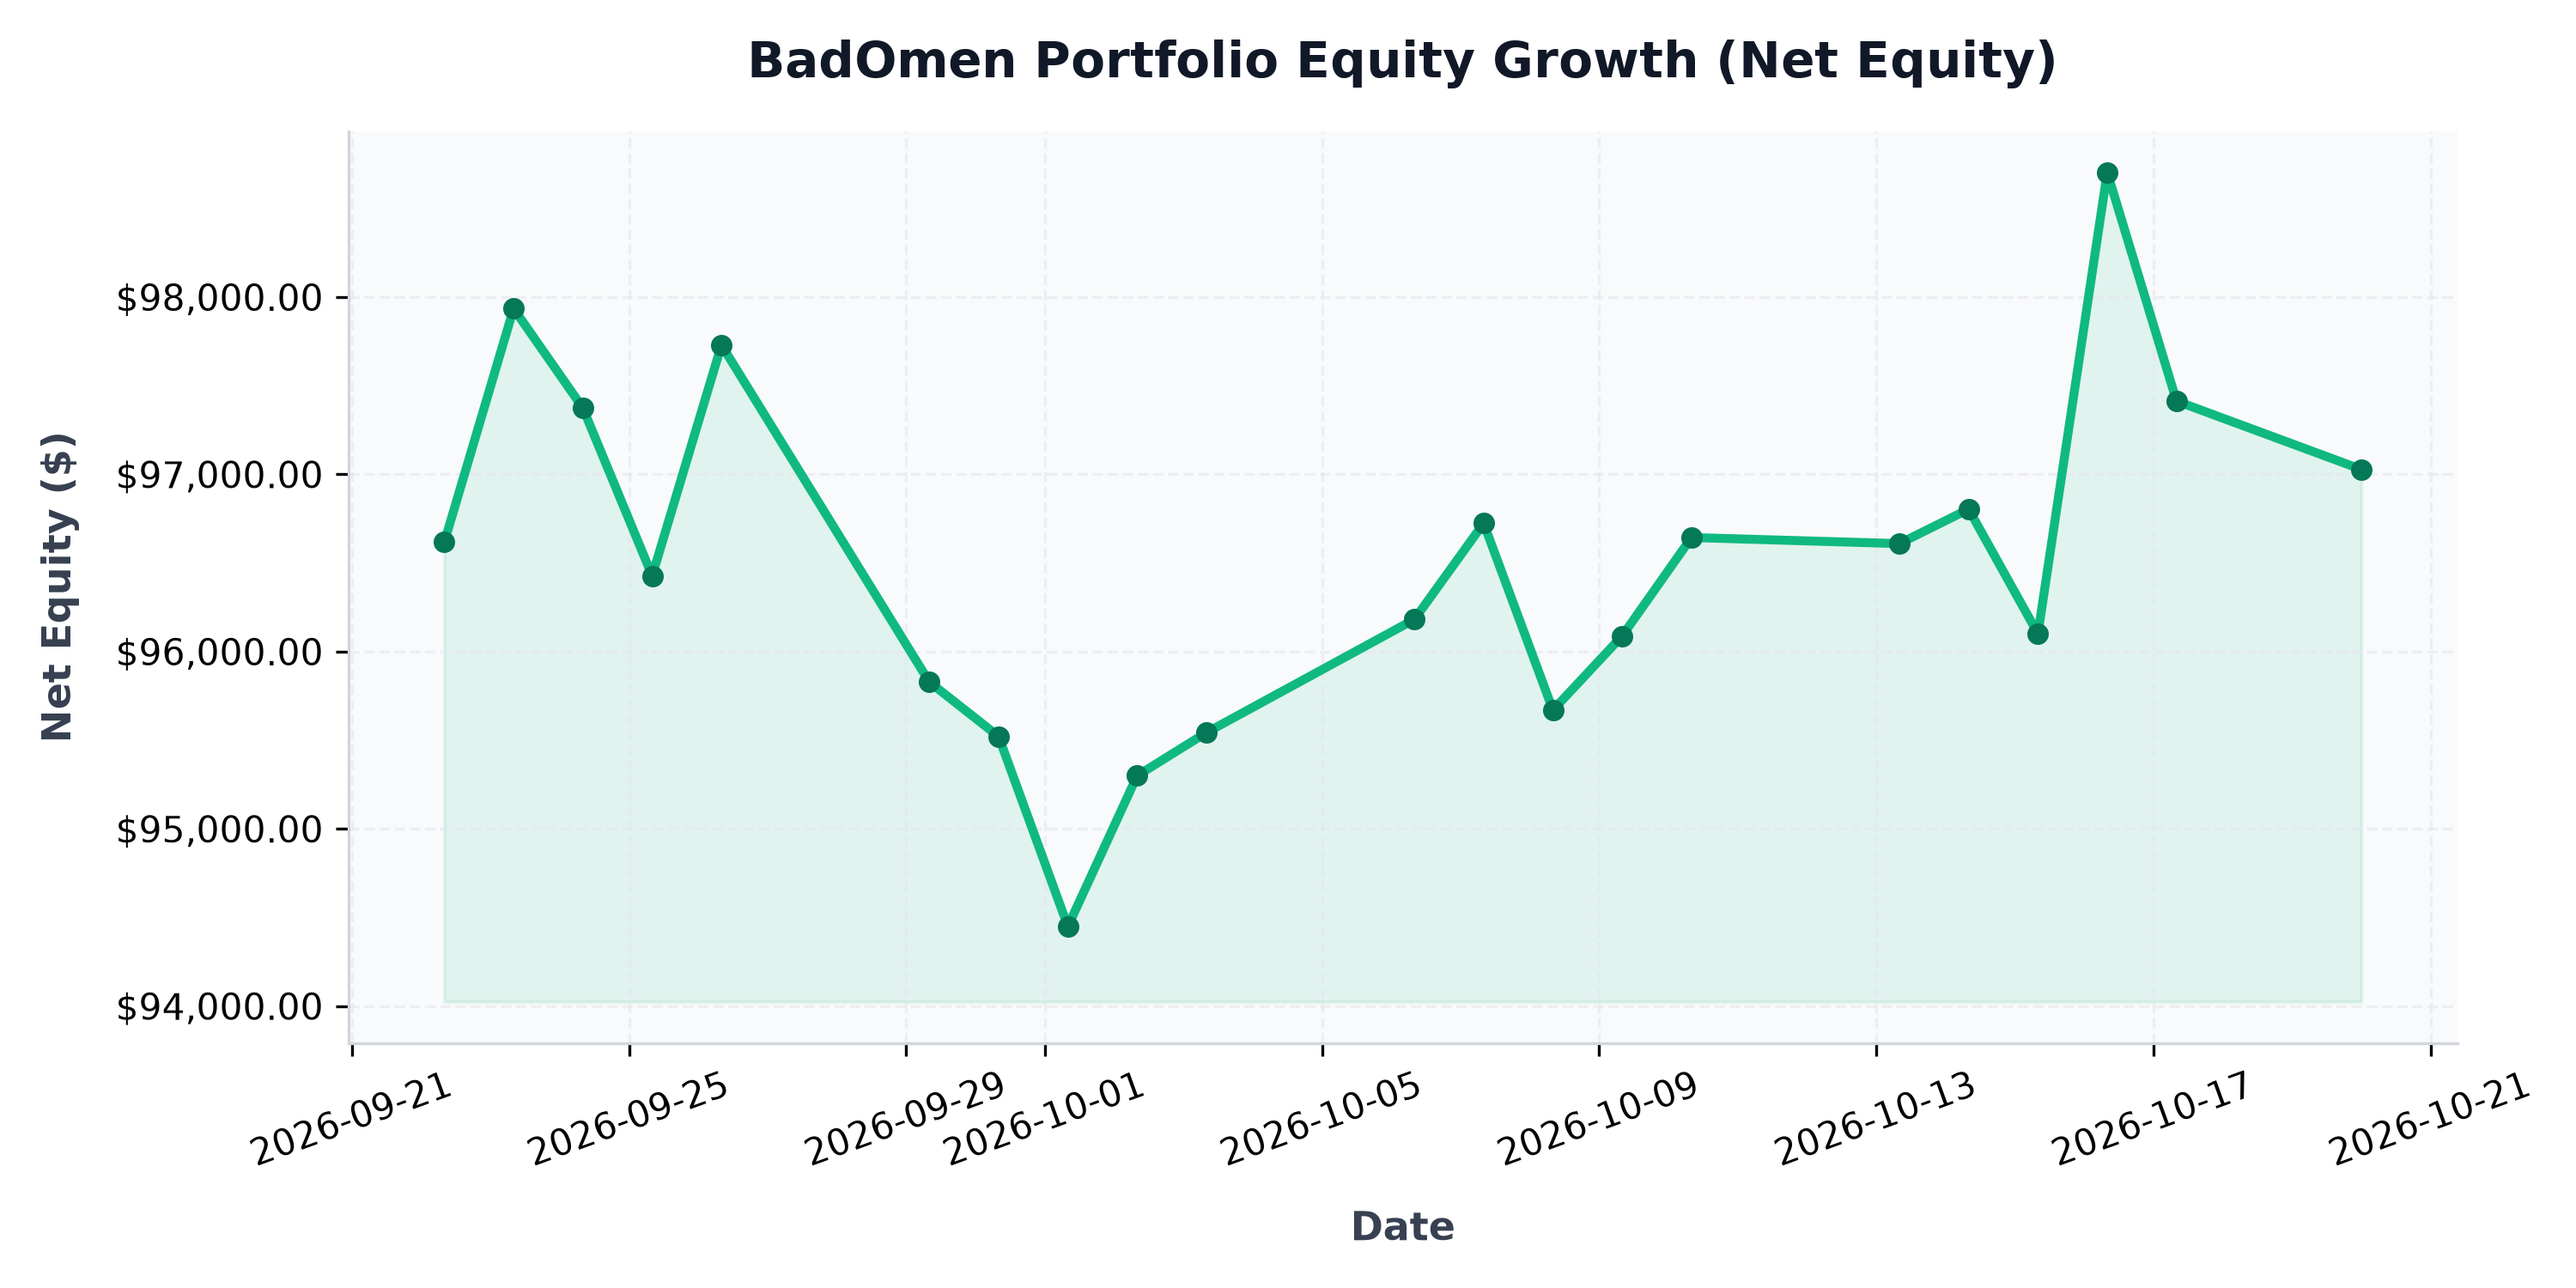
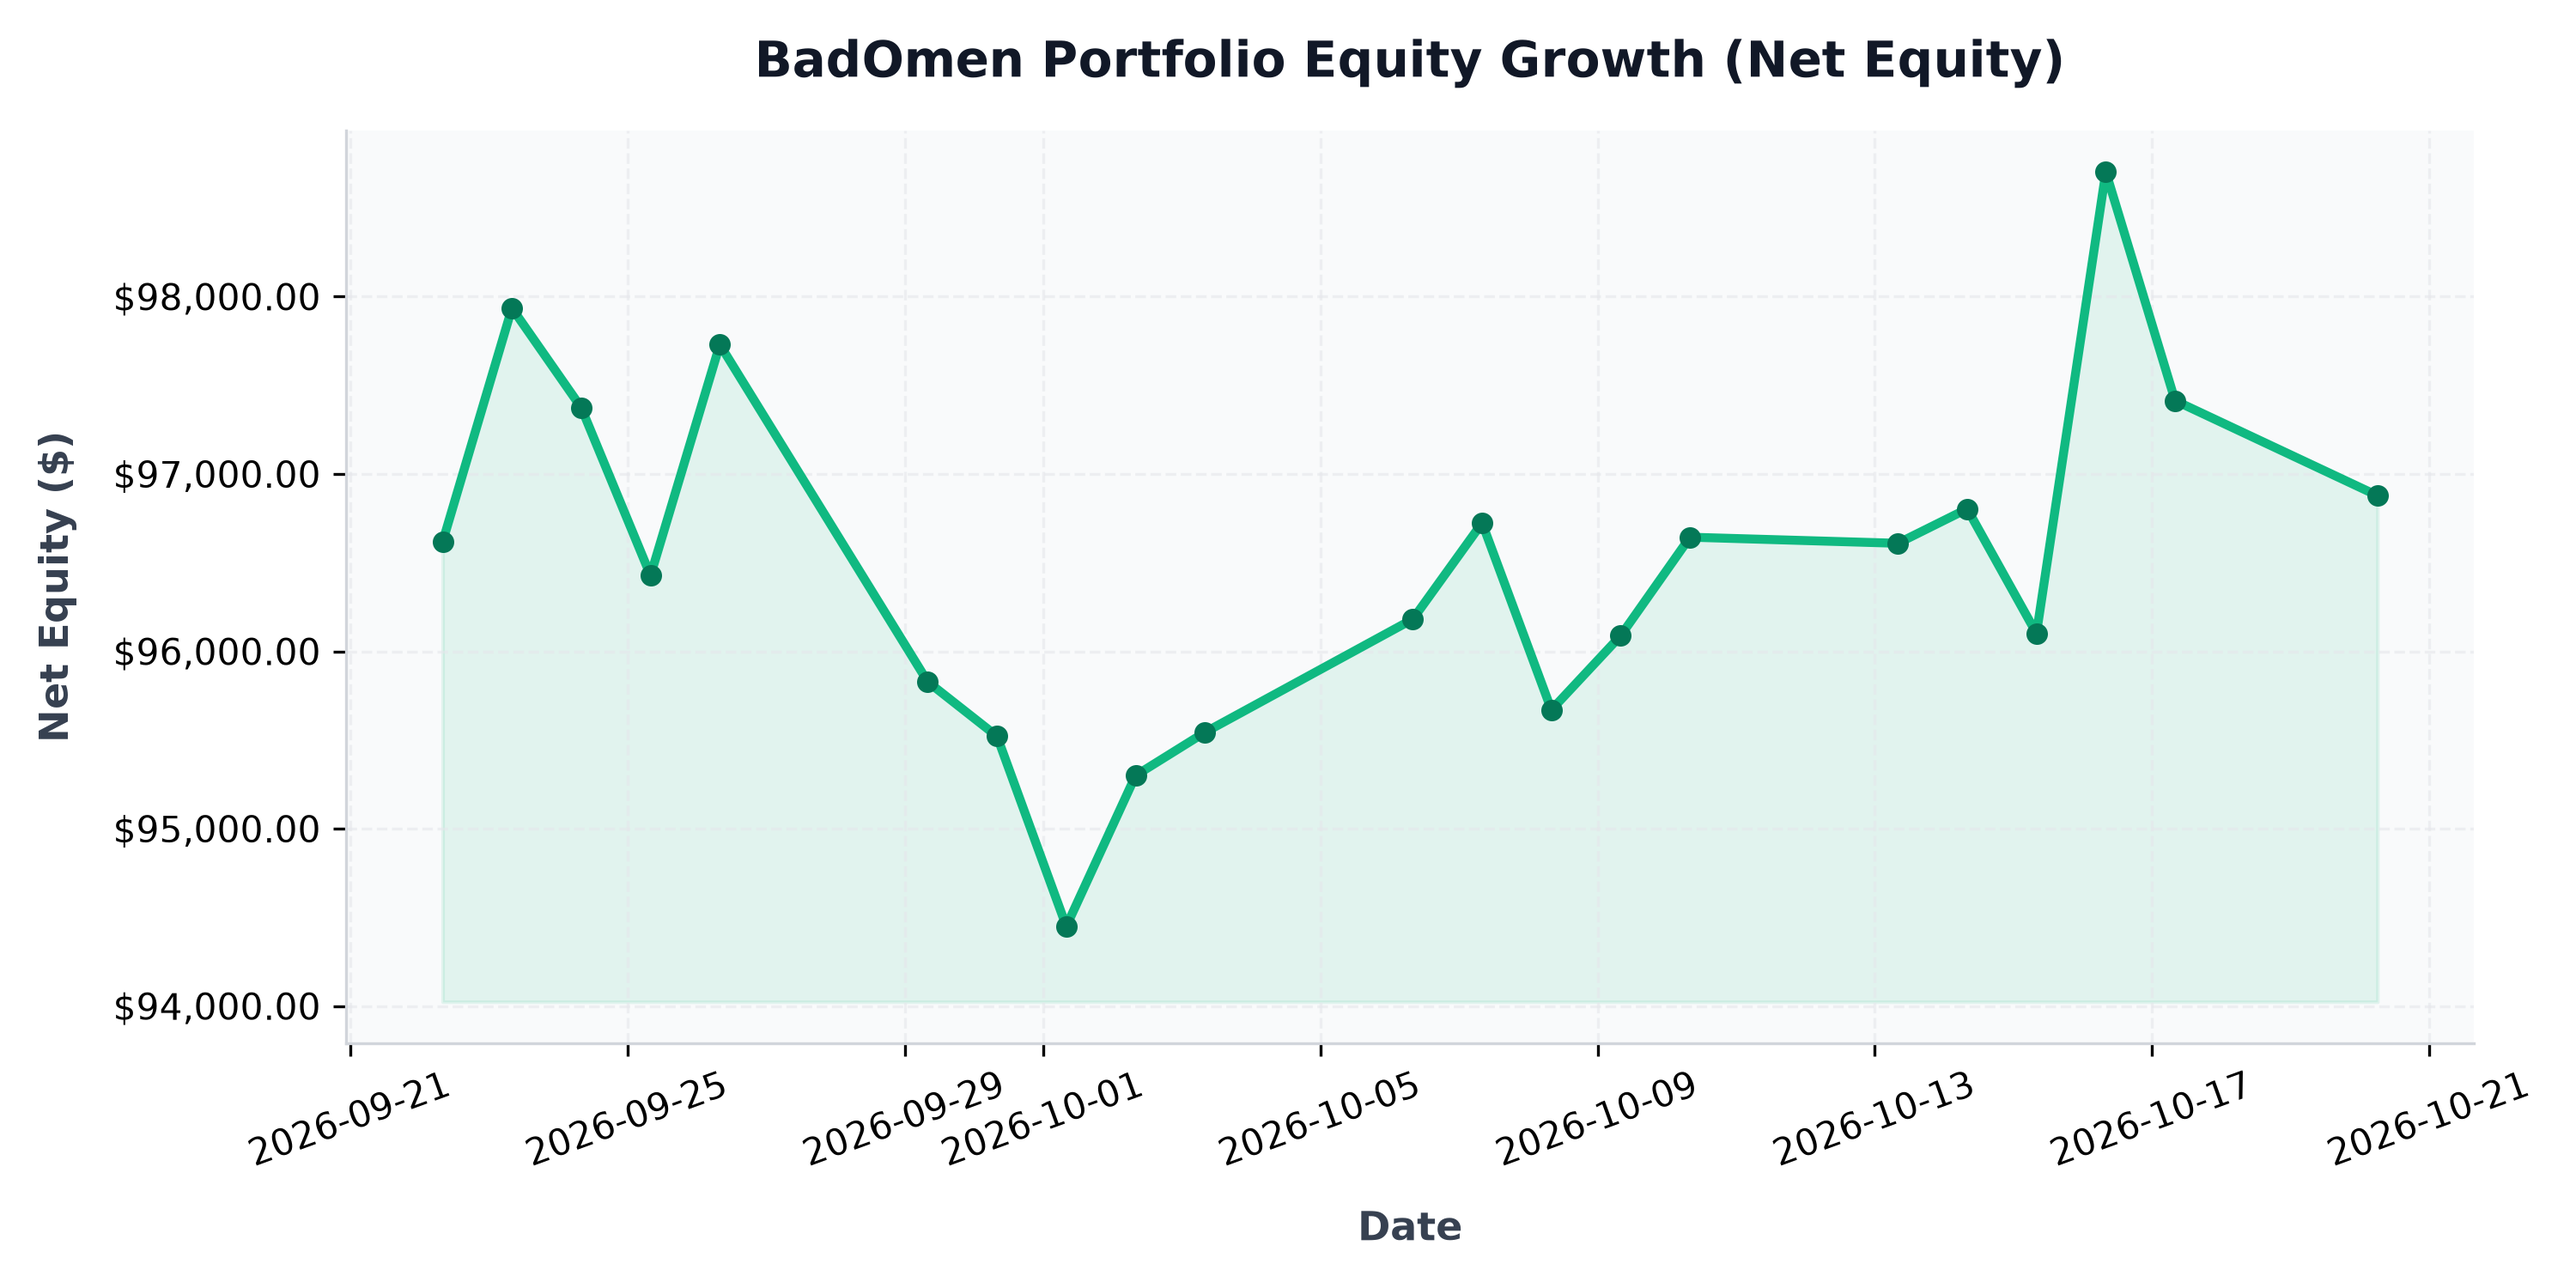
auto: daily portfolio status update - 2026-10-20 06:05:14

diff --git a/src/content/posts/portfolio-performance.md b/src/content/posts/portfolio-performance.md
@@ -1,6 +1,6 @@
 ---
 title: "BadOmen Algorithmic Portfolio Performance & PnL Report"
-pubDatetime: 2026-10-20T00:00:14.351247+08:00
+pubDatetime: 2026-10-20T06:05:14.110418+08:00
 description: "Live performance metrics, active holdings, and historic equity curve for the BadOmen automated paper trading portfolio."
 featured: true
 draft: false
@@ -16,11 +16,11 @@ Welcome to the live performance dashboard for **BadOmen**, our automated algorit
 ## 📊 Portfolio Summary
 | Performance Metric | Value | description |
 | :--- | :--- | :--- |
-| **Net Portfolio Equity** | **$97,028.08** | Total current liquidation value of cash and stock holdings |
-| **Total Unrealized P&L** | 🔴 **$-4,070.28** (-4.03%) | Total return of current open holdings |
+| **Net Portfolio Equity** | **$96,878.10** | Total current liquidation value of cash and stock holdings |
+| **Total Unrealized P&L** | 🔴 **$-4,216.16** (-4.17%) | Total return of current open holdings |
 | **Cash Balance** | $24,266.50 | Idle reserve currency available for limit orders |
-| **Buying Power** | $300,798.43 | Margin-backed buying power for entry allocations |
-| **Report Updated** | `2026-10-20 00:00:14 (SGT)` | Timestamp of daily execution and sync run |
+| **Buying Power** | $300,378.49 | Margin-backed buying power for entry allocations |
+| **Report Updated** | `2026-10-20 06:05:14 (SGT)` | Timestamp of daily execution and sync run |
 
 ## 📈 Net Equity Growth Curve
 The chart below illustrates the historical performance of the account starting from our baseline capital funding of $100,000.00.
@@ -35,35 +35,35 @@ The chart below illustrates the exposure of our currently held active positions 
 ## 💼 Current Position Holdings
 | Ticker | Industry | Shares Owned | Average Entry Cost | Current Price | Unrealized P&L | Return (%) |
 | :--- | :--- | :--- | :--- | :--- | :--- | :--- |
-| **AN** | Auto & Truck Dealerships | 5 | $188.51 | $160.69 | 🔴 $-139.06 | -14.75% |
-| **AVGO** | Semiconductors | 1 | $385.71 | $339.28 | 🔴 $-46.43 | -12.04% |
-| **BIRK** | Footwear & Accessories | 407 | $37.32 | $33.07 | 🔴 $-1,728.82 | -11.38% |
-| **BLBD** | Farm & Heavy Construction Machinery | 231 | $65.52 | $56.41 | 🔴 $-2,102.32 | -13.89% |
-| **BVN** | Other Precious Metals & Mining | 32 | $31.88 | $30.24 | 🔴 $-52.32 | -5.13% |
-| **CELH** | Beverages - Non-Alcoholic | 33 | $29.71 | $29.66 | 🔴 $-1.74 | -0.18% |
-| **CPRI** | Luxury Goods | 1042 | $14.55 | $16.07 | 🟢 +$1,581.96 | +10.43% |
-| **DUOL** | Software - Application | 14 | $131.04 | $140.22 | 🟢 +$128.46 | +7.00% |
-| **FIS** | Information Technology Services | 23 | $41.79 | $35.84 | 🔴 $-136.85 | -14.24% |
-| **GDDY** | Software - Infrastructure | 6 | $76.21 | $106.75 | 🟢 +$183.21 | +40.07% |
-| **GDS** | Information Technology Services | 30 | $32.77 | $22.97 | 🔴 $-294.00 | -29.90% |
-| **GGAL** | Banks - Regional | 17 | $56.04 | $35.16 | 🔴 $-354.87 | -37.25% |
-| **GOOGL** | Internet Content & Information | 3 | $319.44 | $345.77 | 🟢 +$78.99 | +8.24% |
-| **GPI** | Auto & Truck Dealerships | 3 | $316.15 | $241.56 | 🔴 $-223.77 | -23.59% |
-| **HUBS** | Software - Application | 8 | $221.18 | $231.05 | 🟢 +$78.95 | +4.46% |
-| **ITRI** | Scientific & Technical Instruments | 12 | $81.80 | $82.68 | 🟢 +$10.56 | +1.08% |
-| **KBR** | Engineering & Construction | 27 | $36.23 | $36.51 | 🟢 +$7.34 | +0.75% |
-| **NESR** | Oil & Gas Equipment & Services | 34 | $28.74 | $19.01 | 🔴 $-330.82 | -33.86% |
-| **NU** | Banks - Regional | 57 | $11.60 | $14.57 | 🟢 +$169.66 | +25.66% |
-| **ON** | Semiconductors | 10 | $90.45 | $72.07 | 🔴 $-183.85 | -20.32% |
-| **ORCL** | Software - Infrastructure | 5 | $181.95 | $130.91 | 🔴 $-255.18 | -28.05% |
-| **PATH** | Software - Infrastructure | 38 | $10.25 | $13.12 | 🟢 +$108.87 | +27.95% |
-| **PYPL** | Credit Services | 17 | $56.05 | $56.37 | 🟢 +$5.36 | +0.56% |
-| **QCOM** | Semiconductors | 15 | $193.68 | $176.31 | 🔴 $-260.62 | -8.97% |
-| **SMCI** | Computer Hardware | 22 | $29.25 | $32.81 | 🟢 +$78.43 | +12.19% |
-| **SRE** | Utilities - Diversified | 57 | $84.75 | $82.41 | 🔴 $-133.52 | -2.76% |
-| **T** | Telecom Services | 47 | $20.85 | $23.14 | 🟢 +$107.39 | +10.96% |
-| **WEN** | Restaurants | 257 | $8.02 | $6.59 | 🔴 $-368.44 | -17.87% |
-| **ZG** | Internet Content & Information | 31 | $31.35 | $31.45 | 🟢 +$3.15 | +0.33% |
+| **AN** | Auto & Truck Dealerships | 5 | $188.51 | $160.39 | 🔴 $-140.59 | -14.92% |
+| **AVGO** | Semiconductors | 1 | $385.71 | $335.58 | 🔴 $-50.13 | -13.00% |
+| **BIRK** | Footwear & Accessories | 407 | $37.32 | $32.85 | 🔴 $-1,818.36 | -11.97% |
+| **BLBD** | Farm & Heavy Construction Machinery | 231 | $65.52 | $55.72 | 🔴 $-2,262.87 | -14.95% |
+| **BVN** | Other Precious Metals & Mining | 32 | $31.88 | $30.14 | 🔴 $-55.52 | -5.44% |
+| **CELH** | Beverages - Non-Alcoholic | 33 | $29.71 | $29.65 | 🔴 $-2.06 | -0.21% |
+| **CPRI** | Luxury Goods | 1042 | $14.55 | $16.20 | 🟢 +$1,717.42 | +11.33% |
+| **DUOL** | Software - Application | 14 | $131.04 | $142.39 | 🟢 +$158.84 | +8.66% |
+| **FIS** | Information Technology Services | 23 | $41.79 | $36.03 | 🔴 $-132.48 | -13.78% |
+| **GDDY** | Software - Infrastructure | 6 | $76.21 | $106.70 | 🟢 +$182.94 | +40.01% |
+| **GDS** | Information Technology Services | 30 | $32.77 | $22.48 | 🔴 $-308.70 | -31.40% |
+| **GGAL** | Banks - Regional | 17 | $56.04 | $35.09 | 🔴 $-356.14 | -37.38% |
+| **GOOGL** | Internet Content & Information | 3 | $319.44 | $344.25 | 🟢 +$74.43 | +7.77% |
+| **GPI** | Auto & Truck Dealerships | 3 | $316.15 | $240.00 | 🔴 $-228.45 | -24.09% |
+| **HUBS** | Software - Application | 8 | $221.18 | $234.63 | 🟢 +$107.59 | +6.08% |
+| **ITRI** | Scientific & Technical Instruments | 12 | $81.80 | $82.31 | 🟢 +$6.12 | +0.62% |
+| **KBR** | Engineering & Construction | 27 | $36.23 | $36.43 | 🟢 +$5.32 | +0.54% |
+| **NESR** | Oil & Gas Equipment & Services | 34 | $28.74 | $18.80 | 🔴 $-337.96 | -34.59% |
+| **NU** | Banks - Regional | 57 | $11.60 | $14.51 | 🟢 +$166.00 | +25.11% |
+| **ON** | Semiconductors | 10 | $90.45 | $73.18 | 🔴 $-172.75 | -19.10% |
+| **ORCL** | Software - Infrastructure | 5 | $181.95 | $129.67 | 🔴 $-261.40 | -28.73% |
+| **PATH** | Software - Infrastructure | 38 | $10.25 | $13.10 | 🟢 +$108.39 | +27.83% |
+| **PYPL** | Credit Services | 17 | $56.05 | $56.33 | 🟢 +$4.74 | +0.50% |
+| **QCOM** | Semiconductors | 15 | $193.68 | $173.84 | 🔴 $-297.67 | -10.25% |
+| **SMCI** | Computer Hardware | 22 | $29.25 | $32.24 | 🟢 +$65.75 | +10.22% |
+| **SRE** | Utilities - Diversified | 57 | $84.75 | $81.74 | 🔴 $-171.71 | -3.55% |
+| **T** | Telecom Services | 47 | $20.85 | $23.24 | 🟢 +$112.16 | +11.45% |
+| **WEN** | Restaurants | 257 | $8.02 | $6.69 | 🔴 $-343.54 | -16.66% |
+| **ZG** | Internet Content & Information | 31 | $31.35 | $31.82 | 🟢 +$14.47 | +1.49% |
 
 ## 🔴 Recent Realized Trades
 | Ticker | Shares Sold | Entry Price | Exit Price | Strategy Trigger | Realized Return | Exit Date |
